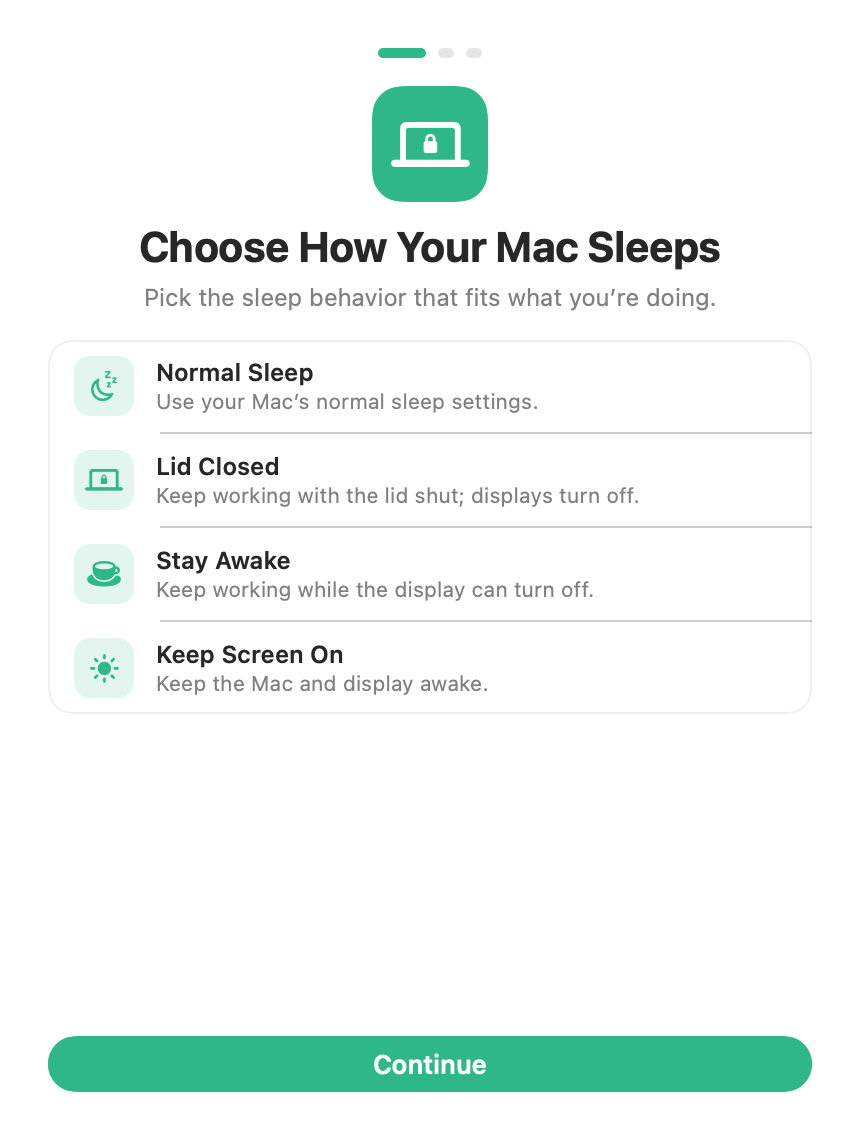
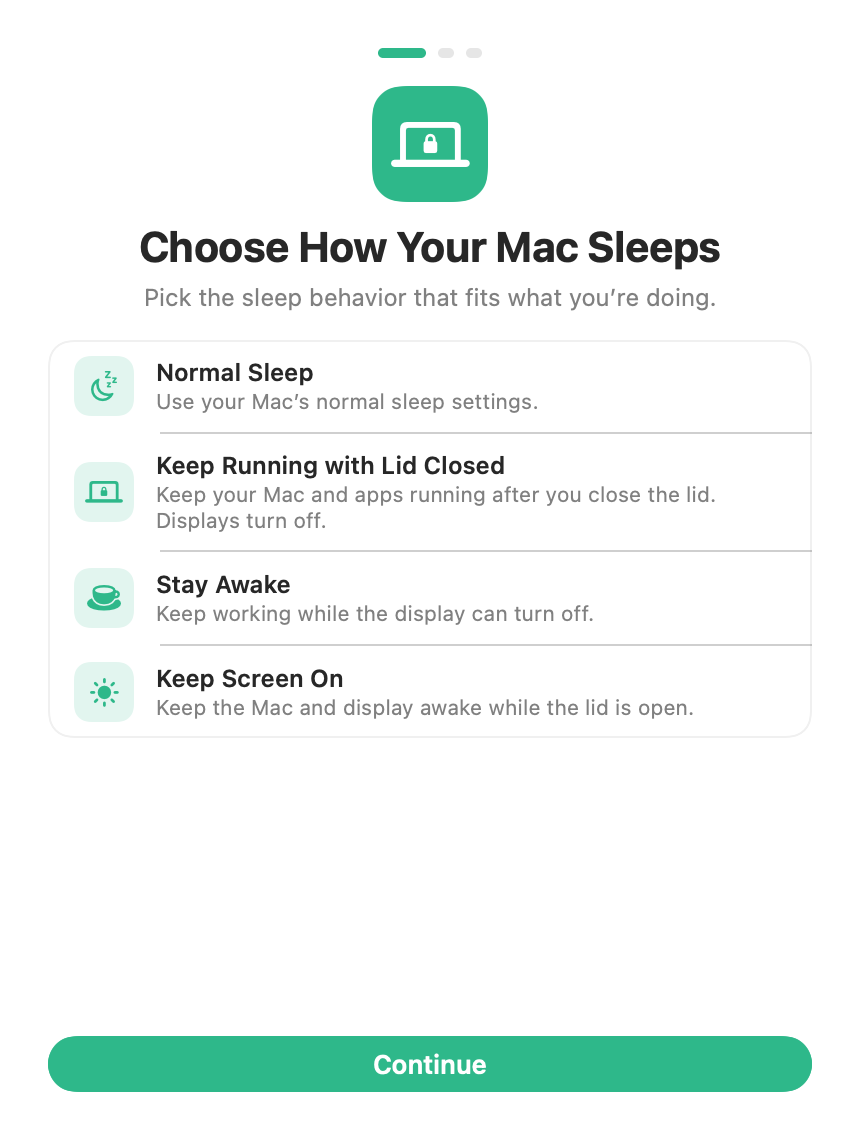
Publish LidLock 1.2.0 (#2)

Changed region(s): [[0.1814, 0.3991, 0.9372, 0.6447], [0.0907, 0.3684, 0.1512, 0.6447]]

diff --git a/GETTING_STARTED.md b/GETTING_STARTED.md
@@ -4,24 +4,23 @@ LidLock is a macOS menu bar utility for controlling when your Mac and display
 sleep. It is free to use, requires no account, and does not collect personal
 information.
 
-The current public download is version 1.1.3. The guided setup and four mode
-interface described below are being tested for the next signed update.
+The current public download is version 1.2.0.
 
 ## Install LidLock
 
 1. [Download LidLock.dmg](https://github.com/DelPage/lidlock/releases/latest/download/LidLock.dmg).
 2. Open the disk image and move LidLock to the Applications folder.
 3. Open LidLock from Applications.
-4. macOS verifies that the app is signed and notarized by DelPage Technologies.
+4. macOS checks that DelPage Technologies signed the app and Apple notarized it.
 
-Moving LidLock to Applications is required only for the optional password-free
-helper. The rest of the app can run without that helper.
+Move LidLock to Applications when you want the optional password-free helper.
+The rest of the app can run without that helper.
 
 ## First Launch
 
-On first launch, LidLock shows what each sleep option does, how Walk Away works,
-where to find LidLock after closing its window, and why Lid Closed needs an
-administrator password.
+On first launch, LidLock explains each sleep option and Walk Away. It also shows
+where to find LidLock after you close its window. The guide explains why Keep
+Running with Lid Closed needs an administrator password.
 
 You can reopen this guide anytime from **Settings**, then **Getting Started**.
 
@@ -30,11 +29,11 @@ You can reopen this guide anytime from **Settings**, then **Getting Started**.
 | Mode | What happens |
 |---|---|
 | **Normal Sleep** | Uses your Mac's normal sleep settings. |
-| **Lid Closed** | Keeps your Mac working with the lid shut while displays turn off. |
+| **Keep Running with Lid Closed** | Keeps your Mac and apps running after you close the lid. Displays turn off. |
 | **Stay Awake** | Keeps your work running while the display can turn off. |
-| **Keep Screen On** | Keeps the Mac and display awake. |
+| **Keep Screen On** | Keeps the Mac and display awake while the lid is open. |
 
-**Walk Away** turns the display off immediately without stopping your work. Your
+**Walk Away** turns the display off without stopping your work. Your
 previous sleep setting remains selected when the display wakes.
 
 Closing the LidLock window does not quit the app. LidLock stays available in the
@@ -45,31 +44,31 @@ macOS menu bar until you choose **Quit LidLock**.
 | Feature | What macOS may request | Why |
 |---|---|---|
 | Normal Sleep, Stay Awake, Keep Screen On, and Walk Away | Nothing | They work as soon as LidLock opens. |
-| Lid Closed | Administrator password | macOS protects changes to how the Mac sleeps with its lid shut. |
+| Keep Running with Lid Closed | Administrator password | macOS protects changes to how the Mac sleeps with its lid shut. |
 | Password-free lid control | Optional helper approval | The signed helper can change only the lid sleep setting. |
 | Open at login | Optional approval under Login Items | macOS lets you decide which apps open when you sign in. |
 
 LidLock does not request access to your files, screen contents, camera,
 microphone, location, contacts, or Accessibility controls.
 
-### Why Lid Closed Needs Administrator Approval
+### Why Keep Running with Lid Closed Needs Administrator Approval
 
-Lid Closed changes how the entire Mac sleeps when its lid is shut. macOS asks
-for an administrator password when that setting changes.
+Keep Running with Lid Closed changes how the entire Mac sleeps when you close
+its lid. macOS asks for an administrator password when that setting changes.
 
-Before the password prompt appears, LidLock explains what will change and that
-the Mac will continue using power while the lid is shut. This does not give
+Before the password prompt appears, LidLock explains what will change. The Mac
+will continue using power while you keep the lid closed. This does not give
 LidLock access to your files, screen, or other apps.
 
 ### Optional Password-free Helper
 
-Without the helper, macOS may ask for an administrator password when Lid Closed
-is turned on or off. If you prefer fewer prompts, open **Settings** and enable
-**Use password-free lid control**.
+Without the helper, macOS may ask for an administrator password when you turn
+Keep Running with Lid Closed on or off. If you prefer fewer prompts, open
+**Settings** and enable **Use password-free lid control**.
 
-The helper is optional. It is signed, limited to the lid sleep setting, and can
-be removed by turning the same setting off. All other LidLock features work
-without it.
+The helper is optional. DelPage Technologies signs it, and it changes only the
+lid sleep setting. Turn the same setting off to remove it. All other LidLock
+features work without the helper.
 
 ### Optional Open at Login
 
@@ -77,13 +76,27 @@ Open at login is off until you enable it. macOS may ask you to approve LidLock
 under **System Settings**, **General**, **Login Items**. This approval only lets
 LidLock open after you sign in.
 
+## Replace Older Copies
+
+When you update LidLock, remove older copies before installing the new version:
+
+1. Choose **Normal Sleep** in the copy you are currently using.
+2. Turn off **Use password-free lid control** and **Open at login** in Settings.
+3. Choose **Quit LidLock** from the menu bar.
+4. Remove every `LidLock.app` from Applications, your user Applications folder, and Downloads.
+5. Eject every mounted LidLock disk image.
+6. Open the latest `LidLock.dmg` and move LidLock to the main Applications folder.
+7. Confirm that the main Applications folder contains the only installed copy.
+
+These steps prevent an older copy from opening at login or appearing in search.
+
 ## Return to Normal
 
 Choose **Normal Sleep** to return to the usual macOS sleep behavior. LidLock also
 restores normal sleep on a clean quit by default.
 
-If you want to remove LidLock, choose Normal Sleep first, quit the app, and move
-LidLock from Applications to the Trash.
+To remove LidLock, choose Normal Sleep first, quit the app, and move LidLock from
+Applications to the Trash.
 
 For more detail, read the [privacy policy](PRIVACY.md) or open a
 [support issue](https://github.com/DelPage/lidlock/issues).

diff --git a/README.md b/README.md
@@ -8,7 +8,7 @@ Keep your Mac working, even with the lid closed.
 [![Support LidLock](https://img.shields.io/badge/Support-LidLock-2FBC91?labelColor=0f172a)](SUPPORT.md)
 
 LidLock keeps Claude Code, Codex, local servers, downloads, automations, and long builds running
-when your Mac would normally sleep. No Terminal commands required.
+when your Mac would otherwise sleep. No Terminal commands required.
 
 LidLock is free software published by DelPage Technologies.
 
@@ -17,36 +17,33 @@ LidLock is free software published by DelPage Technologies.
 </p>
 
 <p align="center">
-  <img src="screenshots/lidlock-main.png" width="430" alt="LidLock preview showing four power modes and the Walk Away action">
-</p>
-
-<p align="center">
-  <em>Preview of the next signed LidLock update, currently being tested.</em>
+  <img src="screenshots/lidlock-main.png" width="430" alt="LidLock showing four power modes and the Walk Away action">
 </p>
 
 ## Free Download
 
 - [Download LidLock.dmg](https://github.com/DelPage/lidlock/releases/latest/download/LidLock.dmg)
-- Current version: **1.1.3**
[1 lines of base64/hex data omitted]
+- Current version: **1.2.0**
[1 lines of base64/hex data omitted]
 
-LidLock requires **macOS 13 Ventura or newer**. The distributed app is signed with Apple Developer ID and notarized by Apple.
+LidLock requires **macOS 13 Ventura or newer**. Apple signs the distributed app
+with Developer ID and notarizes it.
 
 ## Getting Started
 
-The next signed update includes a short first-run guide to the sleep controls,
-Walk Away, the menu bar, and administrator approval. You can reopen it anytime
-from **Settings**, then **Getting Started**.
+Version 1.2.0 includes a short first launch guide to the sleep controls, Walk
+Away, the menu bar, and administrator approval. You can reopen it anytime from
+**Settings**, then **Getting Started**.
 
-[Read the complete installation and permissions guide](GETTING_STARTED.md).
+[Read the complete guide to install LidLock and review its permissions](GETTING_STARTED.md).
 
 ## What It Does
 
 - **Normal Sleep** uses your Mac's normal sleep settings.
-- **Lid Closed** keeps your MacBook working with the lid shut while displays turn off.
+- **Keep Running with Lid Closed** keeps your Mac and apps running after you close the lid. Displays turn off.
 - **Stay Awake** keeps your work running while the display can turn off.
-- **Keep Screen On** keeps the Mac and display awake.
-- **Walk Away** turns the display off immediately without stopping your work.
+- **Keep Screen On** keeps the Mac and display awake while the lid is open.
+- **Walk Away** turns the display off without stopping your work.
 - Closing the window keeps LidLock available in the menu bar; reopen it from
   **Open LidLock** or quit it explicitly from the same menu.
 
@@ -55,7 +52,7 @@ from **Settings**, then **Getting Started**.
 | Feature | Approval | Why |
 |---|---|---|
 | Normal Sleep, Stay Awake, Keep Screen On, and Walk Away | None | They work as soon as LidLock opens. |
-| Lid Closed | Administrator password | macOS protects changes to how the Mac sleeps with its lid shut. |
+| Keep Running with Lid Closed | Administrator password | macOS protects changes to how the Mac sleeps with its lid shut. |
 | Password-free lid control | Optional helper approval | A signed helper can change only the lid sleep setting. |
 | Open at login | Optional Login Items approval | macOS lets you choose which apps open when you sign in. |
 
@@ -64,14 +61,11 @@ location, contacts, or Accessibility controls. Read
 [Getting Started](GETTING_STARTED.md#permissions-and-approvals) for the full
 explanation.
 
-## Next Update Preview
+## Interface
 
-These screenshots are from the next signed update. The download above remains
-version 1.1.3 until that update is published.
-
-| Sleep controls | First-run guide |
+| Sleep controls | First launch guide |
 |---|---|
-| ![LidLock four-mode screen](screenshots/lidlock-main.png) | ![LidLock first-run guide](screenshots/lidlock-onboarding.png) |
+| ![LidLock four mode screen](screenshots/lidlock-main.png) | ![LidLock first launch guide](screenshots/lidlock-onboarding.png) |
 
 ## Privacy
 
@@ -80,7 +74,7 @@ LidLock is private by default:
 - No accounts.
 - No analytics.
 - No telemetry.
-- No automatic network access during normal operation.
+- No automatic network access while you use LidLock.
 
 Read the [LidLock privacy policy](PRIVACY.md).
 
@@ -96,11 +90,12 @@ Use [GitHub Issues](https://github.com/DelPage/lidlock/issues) for bug reports a
 
 ## Closed Source Notice
 
-This public repository is for distribution, screenshots, releases, and issue tracking. The LidLock application source code is not published here.
+This public repository contains releases, screenshots, and issue tracking. The
+private source repository remains separate.
 
-LidLock is proprietary software from DelPage Technologies. See [EULA.md](EULA.md)
-for the license terms that apply to the compiled app and [CONTRIBUTING.md](CONTRIBUTING.md)
-for the public-repository boundary.
+DelPage Technologies publishes LidLock as proprietary software. Read the
+[EULA](EULA.md) for license terms and [CONTRIBUTING](CONTRIBUTING.md) for the
+public repository boundary.
 
 ## Links
 

diff --git a/PRIVACY.md b/PRIVACY.md
@@ -1,38 +1,38 @@
 # LidLock Privacy Policy
 
-Last updated: 2026-07-15
+Last updated: 2026-08-20
 
-LidLock is designed to be private by default. **It collects nothing.**
+LidLock keeps your activity private. **It collects nothing.**
 
 ## What LidLock Does Not Do
 
 - LidLock does not gather, store, or transmit personal information.
-- LidLock has no accounts, no sign-in, no analytics, no telemetry, no advertising, and no fingerprinting.
-- LidLock does not contact any server during normal operation.
+- LidLock has no accounts, no sign in, no analytics, no telemetry, no advertising, and no fingerprinting.
+- LidLock does not contact any server while it runs.
 
 ## What Stays On Your Mac
 
-- Preferences such as Open at login, safety settings, and menu-bar visibility are stored locally on your Mac.
-- Diagnostic logs are written only to the local macOS unified logging system for on-device troubleshooting.
+- LidLock stores preferences such as Open at login, safety settings, and menu bar visibility locally on your Mac.
+- macOS writes diagnostic logs only to its unified logging system for troubleshooting on your device.
 
 ## System Changes LidLock Makes
 
 LidLock changes local macOS power settings. Normal Sleep, Stay Awake, Keep
 Screen On, and Walk Away do not require special access.
 
-Lid Closed requires administrator approval because it changes a system-wide lid
-sleep setting. Before macOS requests approval, LidLock explains what will change
-and why. This approval does not give LidLock access to personal information or
-other apps.
+Keep Running with Lid Closed requires administrator approval because it changes
+a system wide lid sleep setting. Before macOS requests approval, LidLock explains
+what will change and why. This approval does not give LidLock access to personal
+information or other apps.
 
-The optional password-free lid control helper can change only the lid sleep
-setting and accepts requests only from the signed LidLock app. It can be removed
-from LidLock Settings. Open at login is also optional and may require approval
+The optional password-free lid control helper changes only the lid sleep setting
+and accepts requests only from the signed LidLock app. Turn it off in LidLock
+Settings to remove it. Open at login is also optional and may require approval
 under macOS Login Items.
 
 LidLock does not request access to files, screen contents, camera, microphone,
 location, contacts, or Accessibility controls. All power settings and approvals
-remain on the Mac and are not transmitted anywhere.
+stay on the Mac. LidLock never sends them anywhere.
 
 ## Optional Support Links
 

diff --git a/release-notes/v1.2.0.md b/release-notes/v1.2.0.md
@@ -1,0 +1,67 @@
+# LidLock 1.2.0
+
+LidLock now makes the lid closed option easy to find and understand.
+
+## Download
+
+Apple signs the attached `LidLock.dmg` with Developer ID and notarizes it.
+Gatekeeper validates both the app and disk image.
+
+SHA-256:
+
+```text
+56fcf464a2937557661f1b2c49d8f8d1ec465ac9dee36a9415e239a7c37e8a95  LidLock.dmg
+```
+
+## What Changed
+
+- Replaced separate power switches with four clear sleep modes.
+- Added **Keep Running with Lid Closed** so the Mac and apps continue after the
+  lid closes while all displays turn off.
+- Added a first launch guide for modes, Walk Away, the menu bar, and approvals.
+- Made Walk Away a separate action that turns off the display without stopping work.
+- Kept LidLock available in the menu bar when its window closes.
+- Added the Support LidLock page and donation choices.
+- Signed and notarized both the app and disk image.
+
+## Keep Running with Lid Closed
+
+1. Install LidLock in the Applications folder.
+2. Open LidLock and choose **Keep Running with Lid Closed**.
+3. Approve the macOS administrator request.
+4. Close the lid.
+
+The displays turn off while your Mac and apps keep running. Choose **Normal
+Sleep** when you want the usual macOS sleep behavior again.
+
+If you prefer fewer password prompts, Settings can install an optional signed
+helper that changes only the lid sleep setting.
+
+## Replacing Older Copies
+
+Before installing this version, choose **Normal Sleep**, turn off the optional
+helper and Open at login, quit LidLock, and remove older copies. Install the new
+copy in the main Applications folder.
+
+The [Getting Started guide](https://github.com/DelPage/lidlock/blob/main/GETTING_STARTED.md#replace-older-copies)
+has the complete cleanup steps.
+
+## Requirements
+
+- macOS 13 Ventura or newer.
+- A MacBook for the lid closed mode. Other Macs can still use the awake and
+  display controls.
+
+## Privacy
+
+LidLock has no accounts, analytics, telemetry, or advertising. It does not
+contact any server while you use it. The optional helper stays on your Mac and
+changes only the lid sleep setting.
+
+Privacy policy: https://github.com/DelPage/lidlock/blob/main/PRIVACY.md
+
+## Support
+
+Use GitHub Issues for bug reports and compatibility notes:
+
+https://github.com/DelPage/lidlock/issues

diff --git a/CHANGELOG.md b/CHANGELOG.md
@@ -1,6 +1,22 @@
 # Changelog
 
-All notable public releases of LidLock are tracked here.
+This changelog lists every notable public LidLock release.
+
+## 1.2.0 - 2026-08-20
+
+- Replaced separate power switches with four clear sleep modes.
+- Added **Keep Running with Lid Closed** so the Mac and apps continue after the
+  lid closes while all displays turn off.
+- Added a first launch guide for modes, Walk Away, the menu bar, and approvals.
+- Made Walk Away a separate action that turns off the display without stopping work.
+- Added the Support LidLock page and donation choices.
+- Signed and notarized both the app and disk image. Release checks require
+  Gatekeeper to accept both before we publish a release.
+
+Artifact:
+
+- `LidLock.dmg`
[1 lines of base64/hex data omitted]
 
 ## 1.1.3 - 2026-07-15
 
